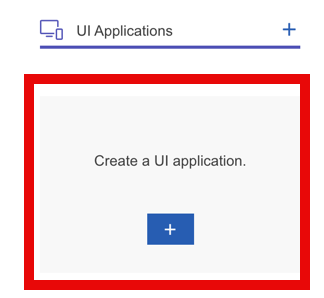
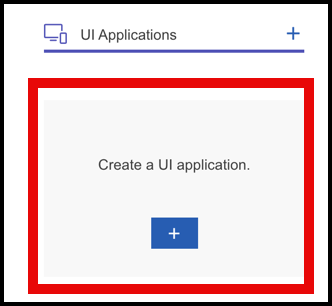
Adding borders to missed images and adjusting the size based on testing

diff --git a/exercises/ex3/README.md b/exercises/ex3/README.md
@@ -65,9 +65,9 @@ In this exercise, you will access the SAP Build Lobby to create an MDK project a
    <img src="images/runtime-resources.png" alt="Runtime Resources" width="800" />  
 2. Search for `XXX`, then select `edu.xxx.teched25` from the applications list in the **Mobile Application Services** editor.  
    > Replace `xxx` with your student number (last 3 digits of your login email).  
-   <img src="images/select-app.png" alt="Select App" width="250" />  
+   <img src="images/select-app.png" alt="Select App" width="400" />  
 3. Select `com.sap.edm.sampleservice.v4` from the destinations list and click **Add App to Project**.  
-   <img src="images/add-destination.png" alt="Add Destination" width="500" />  
+   <img src="images/add-destination.png" alt="Add Destination" width="700" />  
 
 The storyboard will now display the app under **Runtime Resources** and the destination under **External Resources**, connected by a dotted line.  
 
